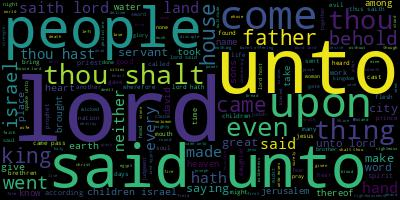
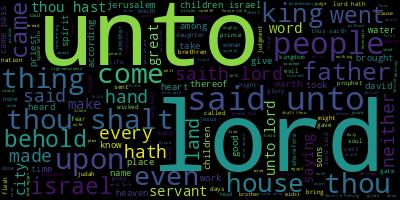
lexicon based sentiment analysis on religious texts

diff --git a/sentiment_analysis/SentimentAnalysis.py b/sentiment_analysis/SentimentAnalysis.py
@@ -1,4 +1,5 @@
-#from nltk.stem import PorterStemmer
+from textblob import TextBlob
+from nltk.stem import PorterStemmer
 from nltk.stem.wordnet import WordNetLemmatizer
 import matplotlib.pyplot as plt
 from wordcloud import WordCloud
@@ -6,24 +7,28 @@ import pandas as pd
 import numpy as np
 import os
 from nltk import RegexpTokenizer, word_tokenize, corpus, pos_tag
+from nltk.corpus import wordnet
 import nltk
 #nltk.download('averaged_perceptron_tagger')
 nltk.download('wordnet')
+#from transformers import BertTokenizer, TFBertForSequenceClassification
+#from transformers import InputExample, InputFeatures
 
 class Sentiment:
-    def __init__(self):
+    def __init__(self, lemmatization:bool = True):
+        self.lemmatization = lemmatization
+        self.stemmer = PorterStemmer()
+        self.lem = WordNetLemmatizer()
         self.texts_name = ["bible", "upanishads", "quran", "tao", "sumerian", "vedanta"]
         self.stop_words = corpus.stopwords.words('english')
         new_stopwords = ["thee", "ye"]
         self.stop_words.extend(new_stopwords) 
         self.current_dir =  os.path.dirname( os.path.abspath(__file__) )
-        #self.stemmer = PorterStemmer()
-        self.lem = WordNetLemmatizer()
 
     def analize_texts(self):
         text_dict = self.open_data()
         text_dict = self.dataprep(text_dict)
-
+        self.lexicon_classifier(text_dict)
     def open_data(self):
         
         text_dict = {}
@@ -35,6 +40,7 @@ class Sentiment:
         return text_dict
 
     def dataprep(self, text_dict:dict):
+        stemmed_dict = {}
         for k, text in text_dict.items():
             tokenizer = RegexpTokenizer(r'\w+')
 
@@ -49,11 +55,16 @@ class Sentiment:
             img.to_file("{}/images/{}_worcloud.jpeg".format(self.current_dir, k)) # example of something you can do with the img
             
             #pos tagging for further lemmatization
-            #words_stems = [self.stemmer.stem(word) for word in words_tokens]
-            pos_tagged_tokens = pos_tag(words_tokens)
-            #pos_tagged_tokens = [pos_tag(word) for word in words_tokens]
-            words_stems = [self.lem.lemmatize(word, self.get_wordnet_pos(tag)) for word, tag in pos_tagged_tokens]
-
+            if self.lemmatization:
+                pos_tagged_tokens = pos_tag(words_tokens)
+                words_stems = [self.lem.lemmatize(word, self.get_wordnet_pos(tag)) 
+                        for word, tag in pos_tagged_tokens if self.get_wordnet_pos(tag)]
+                missing = 100*(len(words_tokens)-len(words_stems))/len(words_tokens)
+                print("Words not lemmatized : {}%".format(missing))
+            else : 
+                words_stems = [self.stemmer.stem(word) for word in words_tokens]
+            stemmed_dict.update({k:words_stems})
+        return stemmed_dict
 
     def get_wordnet_pos(self, treebank_tag):
         if treebank_tag.startswith('J'):
@@ -67,7 +78,35 @@ class Sentiment:
         else:
             return None
 
+    def lexicon_classifier(self, stem_dict):
+        polarity_plot = {}
+        subj_plot = {}
+        for k, stems in stem_dict.items():
+            result = TextBlob(" ".join(stems)).sentiment.polarity
+            polarity_plot.update({k:result})
+            self.plot_evolution(k, stems)
+        
+        plt.bar(range(len(polarity_plot)), list(polarity_plot.values()), align='center')
+        plt.xticks(range(len(polarity_plot)), list(polarity_plot.keys()))
+        plt.savefig("{}/images/polarity_lexicon.jpeg".format(self.current_dir))
 
+    def plot_evolution(self, k, stems):
+        list_polarity = [TextBlob(word).sentiment.polarity for word in stems]
+
+        #Let's make a moving average so it's less of a mess
+        window_size = 300
+        windows = pd.Series(list_polarity).rolling(window_size)
+        moving_averages = windows.mean()
+
+        moving_averages_list = moving_averages.tolist()
+        list_polarity = moving_averages_list[window_size - 1:]
+        size = range(0, len(list_polarity))
+        
+        fig1, ax1 = plt.subplots()
+        ax1.plot(size, list_polarity)
+        fig1.savefig("{}/images/{}_evolution.jpeg".format(self.current_dir, k))
+        plt.close(fig1)
+        
 
 
 
